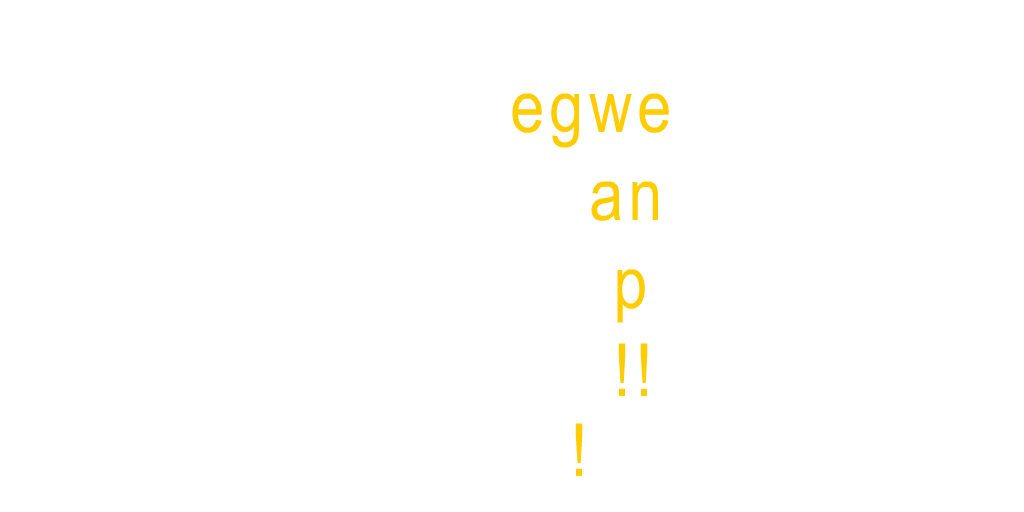
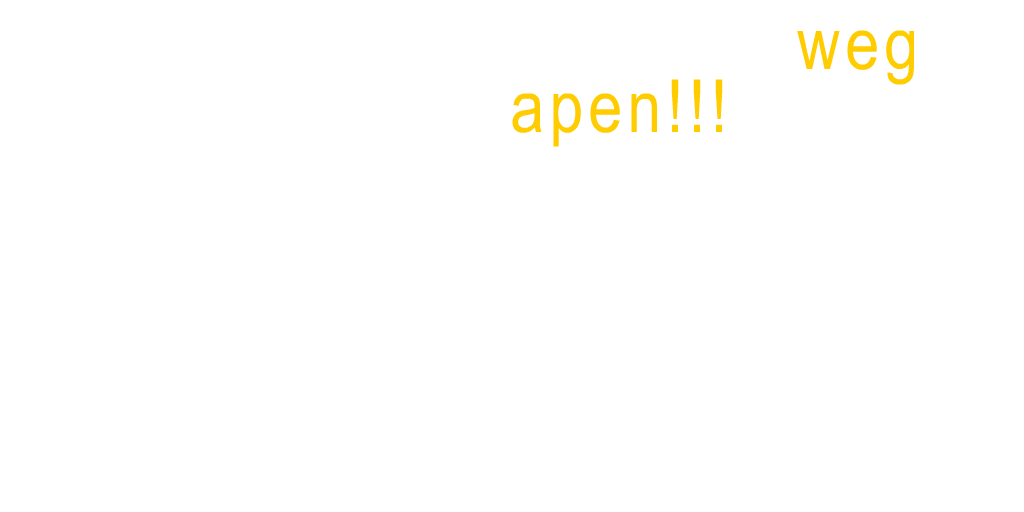
tuuutuutututuu73467343

diff --git a/index.html b/index.html
@@ -27,7 +27,7 @@
 var p; // shortcut to reference prototypes
 var lib={};var ss={};var img={};
 lib.ssMetadata = [
-		{name:"index_atlas_1", frames: [[0,320,610,85],[0,407,567,85],[0,0,507,225],[0,227,586,91],[509,0,285,61],[612,327,20,86],[569,407,20,86],[634,327,20,86],[509,63,37,86],[548,63,37,86],[588,151,37,86],[612,239,37,86],[588,63,46,86],[636,63,37,86],[627,151,37,86]]}
+		{name:"index_atlas_1", frames: [[0,320,610,85],[0,407,567,85],[0,0,507,225],[0,227,586,91],[509,0,285,61],[665,63,20,86],[687,63,20,86],[709,63,20,86],[844,0,37,86],[883,0,37,86],[509,63,37,86],[548,63,37,86],[796,0,46,86],[587,63,37,86],[626,63,37,86]]}
 ];
 (lib.AnMovieClip = function(){
 	this.actionFrames = [];
@@ -46,71 +46,71 @@ lib.ssMetadata = [
 	}
 }).prototype = p = new cjs.MovieClip();
 // symbols:
-(lib.CachedBmp_34 = function() {
-	this.initialize(img.CachedBmp_34);
+(lib.CachedBmp_17 = function() {
+	this.initialize(img.CachedBmp_17);
 }).prototype = p = new cjs.Bitmap();
 p.nominalBounds = new cjs.Rectangle(0,0,1413,85);
-(lib.CachedBmp_33 = function() {
+(lib.CachedBmp_16 = function() {
 	this.initialize(ss["index_atlas_1"]);
 	this.gotoAndStop(0);
 }).prototype = p = new cjs.Sprite();
-(lib.CachedBmp_32 = function() {
+(lib.CachedBmp_15 = function() {
 	this.initialize(ss["index_atlas_1"]);
 	this.gotoAndStop(1);
 }).prototype = p = new cjs.Sprite();
-(lib.CachedBmp_31 = function() {
+(lib.CachedBmp_14 = function() {
 	this.initialize(ss["index_atlas_1"]);
 	this.gotoAndStop(2);
 }).prototype = p = new cjs.Sprite();
-(lib.CachedBmp_30 = function() {
-	this.initialize(img.CachedBmp_30);
+(lib.CachedBmp_13 = function() {
+	this.initialize(img.CachedBmp_13);
 }).prototype = p = new cjs.Bitmap();
 p.nominalBounds = new cjs.Rectangle(0,0,1072,116);
-(lib.CachedBmp_29 = function() {
+(lib.CachedBmp_12 = function() {
 	this.initialize(ss["index_atlas_1"]);
 	this.gotoAndStop(3);
 }).prototype = p = new cjs.Sprite();
-(lib.CachedBmp_28 = function() {
+(lib.CachedBmp_11 = function() {
 	this.initialize(ss["index_atlas_1"]);
 	this.gotoAndStop(4);
 }).prototype = p = new cjs.Sprite();
-(lib.CachedBmp_27 = function() {
+(lib.CachedBmp_10 = function() {
 	this.initialize(ss["index_atlas_1"]);
 	this.gotoAndStop(5);
 }).prototype = p = new cjs.Sprite();
-(lib.CachedBmp_26 = function() {
+(lib.CachedBmp_9 = function() {
 	this.initialize(ss["index_atlas_1"]);
 	this.gotoAndStop(6);
 }).prototype = p = new cjs.Sprite();
-(lib.CachedBmp_25 = function() {
+(lib.CachedBmp_8 = function() {
 	this.initialize(ss["index_atlas_1"]);
 	this.gotoAndStop(7);
 }).prototype = p = new cjs.Sprite();
-(lib.CachedBmp_24 = function() {
+(lib.CachedBmp_7 = function() {
 	this.initialize(ss["index_atlas_1"]);
 	this.gotoAndStop(8);
 }).prototype = p = new cjs.Sprite();
-(lib.CachedBmp_23 = function() {
+(lib.CachedBmp_6 = function() {
 	this.initialize(ss["index_atlas_1"]);
 	this.gotoAndStop(9);
 }).prototype = p = new cjs.Sprite();
-(lib.CachedBmp_22 = function() {
+(lib.CachedBmp_5 = function() {
 	this.initialize(ss["index_atlas_1"]);
 	this.gotoAndStop(10);
 }).prototype = p = new cjs.Sprite();
-(lib.CachedBmp_21 = function() {
+(lib.CachedBmp_4 = function() {
 	this.initialize(ss["index_atlas_1"]);
 	this.gotoAndStop(11);
 }).prototype = p = new cjs.Sprite();
-(lib.CachedBmp_20 = function() {
+(lib.CachedBmp_3 = function() {
 	this.initialize(ss["index_atlas_1"]);
 	this.gotoAndStop(12);
 }).prototype = p = new cjs.Sprite();
-(lib.CachedBmp_19 = function() {
+(lib.CachedBmp_2 = function() {
 	this.initialize(ss["index_atlas_1"]);
 	this.gotoAndStop(13);
 }).prototype = p = new cjs.Sprite();
-(lib.CachedBmp_18 = function() {
+(lib.CachedBmp_1 = function() {
 	this.initialize(ss["index_atlas_1"]);
 	this.gotoAndStop(14);
 }).prototype = p = new cjs.Sprite();
@@ -143,39 +143,39 @@ if (reversed == null) { reversed = false; }
 	props.reversed = reversed;
 	cjs.MovieClip.apply(this,[props]);
 	// Camada_1
-	this.instance = new lib.CachedBmp_34();
+	this.instance = new lib.CachedBmp_17();
 	this.instance.setTransform(-353.2,711.65,0.5,0.5);
-	this.instance_1 = new lib.CachedBmp_33();
+	this.instance_1 = new lib.CachedBmp_16();
 	this.instance_1.setTransform(-152.55,668.95,0.5,0.5);
-	this.instance_2 = new lib.CachedBmp_32();
+	this.instance_2 = new lib.CachedBmp_15();
 	this.instance_2.setTransform(-141.7,626.25,0.5,0.5);
-	this.instance_3 = new lib.CachedBmp_31();
+	this.instance_3 = new lib.CachedBmp_14();
 	this.instance_3.setTransform(-126.8,462.55,0.5,0.5);
-	this.instance_4 = new lib.CachedBmp_30();
+	this.instance_4 = new lib.CachedBmp_13();
 	this.instance_4.setTransform(-267.9,301.95,0.5,0.5);
-	this.instance_5 = new lib.CachedBmp_29();
+	this.instance_5 = new lib.CachedBmp_12();
 	this.instance_5.setTransform(-146.45,235.4,0.5,0.5);
-	this.instance_6 = new lib.CachedBmp_28();
+	this.instance_6 = new lib.CachedBmp_11();
 	this.instance_6.setTransform(-71.15,-97.5,0.5,0.5);
-	this.instance_7 = new lib.CachedBmp_27();
+	this.instance_7 = new lib.CachedBmp_10();
 	this.instance_7.setTransform(453.6,-754.35,0.5,0.5);
-	this.instance_8 = new lib.CachedBmp_26();
+	this.instance_8 = new lib.CachedBmp_9();
 	this.instance_8.setTransform(445.3,-754.35,0.5,0.5);
-	this.instance_9 = new lib.CachedBmp_25();
+	this.instance_9 = new lib.CachedBmp_8();
 	this.instance_9.setTransform(436.95,-754.35,0.5,0.5);
-	this.instance_10 = new lib.CachedBmp_24();
+	this.instance_10 = new lib.CachedBmp_7();
 	this.instance_10.setTransform(420.3,-754.35,0.5,0.5);
-	this.instance_11 = new lib.CachedBmp_23();
+	this.instance_11 = new lib.CachedBmp_6();
 	this.instance_11.setTransform(403.6,-754.35,0.5,0.5);
-	this.instance_12 = new lib.CachedBmp_22();
+	this.instance_12 = new lib.CachedBmp_5();
 	this.instance_12.setTransform(386.95,-754.35,0.5,0.5);
-	this.instance_13 = new lib.CachedBmp_21();
+	this.instance_13 = new lib.CachedBmp_4();
 	this.instance_13.setTransform(370.25,-754.35,0.5,0.5);
-	this.instance_14 = new lib.CachedBmp_20();
+	this.instance_14 = new lib.CachedBmp_3();
 	this.instance_14.setTransform(340.3,-754.35,0.5,0.5);
-	this.instance_15 = new lib.CachedBmp_19();
+	this.instance_15 = new lib.CachedBmp_2();
 	this.instance_15.setTransform(323.65,-754.35,0.5,0.5);
-	this.instance_16 = new lib.CachedBmp_18();
+	this.instance_16 = new lib.CachedBmp_1();
 	this.instance_16.setTransform(306.95,-754.35,0.5,0.5);
 	this.instance_17 = new lib.logo();
 	this.instance_17.setTransform(-463.5,-754.35,0.076,0.076);
@@ -258,8 +258,8 @@ lib.properties = {
 	color: "#0066FF",
 	opacity: 1.00,
 	manifest: [
-		{src:"images/CachedBmp_34.png", id:"CachedBmp_34"},
-		{src:"images/CachedBmp_30.png", id:"CachedBmp_30"},
+		{src:"images/CachedBmp_17.png", id:"CachedBmp_17"},
+		{src:"images/CachedBmp_13.png", id:"CachedBmp_13"},
 		{src:"images/logo.png", id:"logo"},
 		{src:"images/index_atlas_1.png", id:"index_atlas_1"}
 	],
